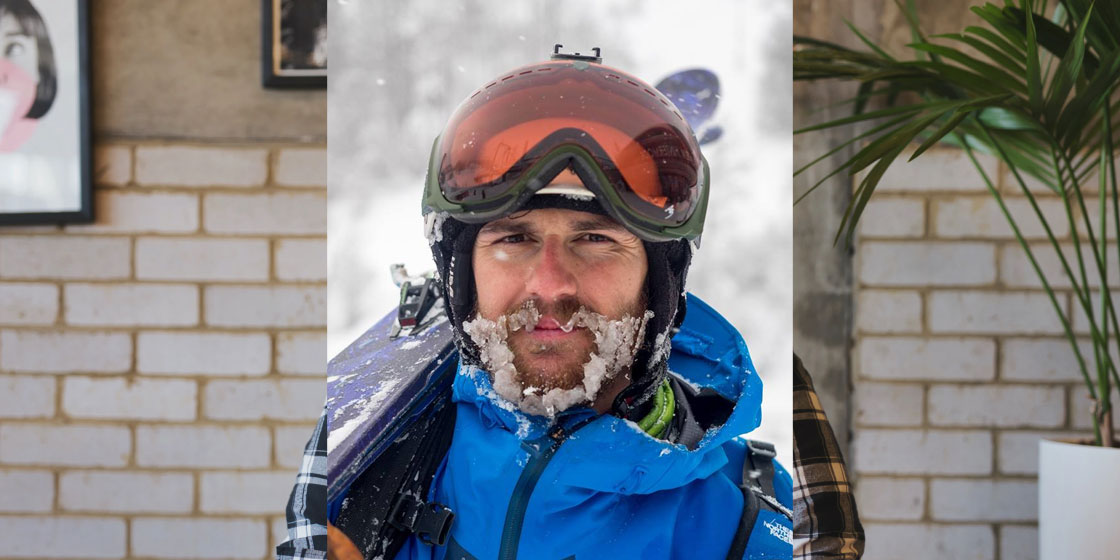
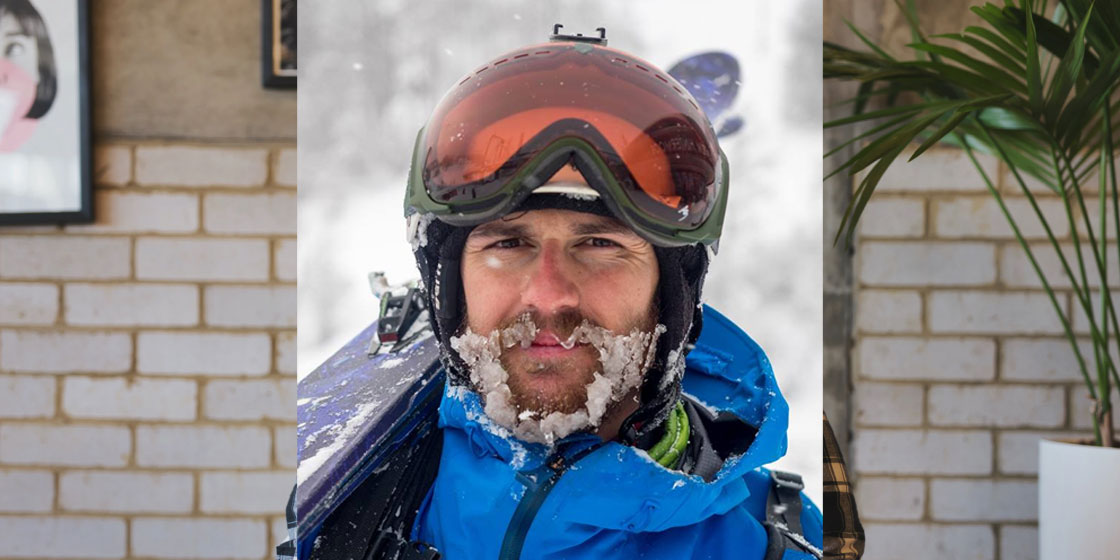
Add new image for Ondrej Pekarek
Remove Linda's image and add better image of Ondrej Pekarek

Changed region(s): [[0.25, 0.0, 0.75, 1.0], [0.4375, 0.0, 0.4688, 0.0304], [0.3438, 0.0607, 0.375, 0.0911]]

diff --git a/src/components/Speakers.jsx b/src/components/Speakers.jsx
@@ -9,7 +9,7 @@ import ondrejVoseckyImage from '@/images/avatars/ondrej-vosecky.jpg'
 import josefLittleImage from '@/images/avatars/josef-little.jpg'
 import petrDocekalImage from '@/images/avatars/petr-docis.jpg'
 import tomBaudImage from '@/images/avatars/tom-baud.jpg'
-import lindaMarsikovaImage from '@/images/avatars/linda-marsikova.jpg'
+import ondrejPekarekImage from '@/images/avatars/ondrej-pekarek.jpg'
 import yannickBesanconImage from '@/images/avatars/yannick-besancon.jpg'
 
 const days = [
@@ -46,7 +46,7 @@ const days = [
       {
         name: 'Ondřej Pekárek',
         role: 'Kyrgyzstan - Back in Time',
-        image: lindaMarsikovaImage,
+        image: ondrejPekarekImage,
       },
     ],
   }
